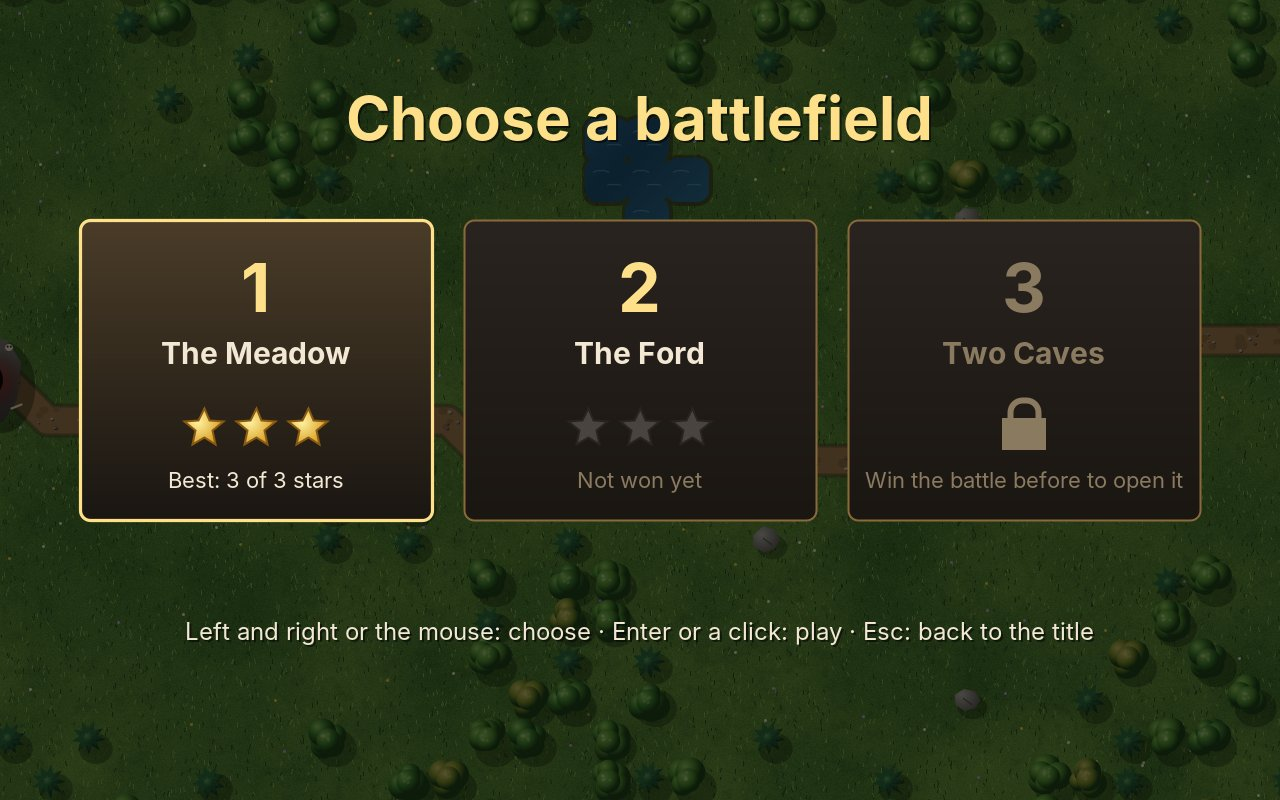
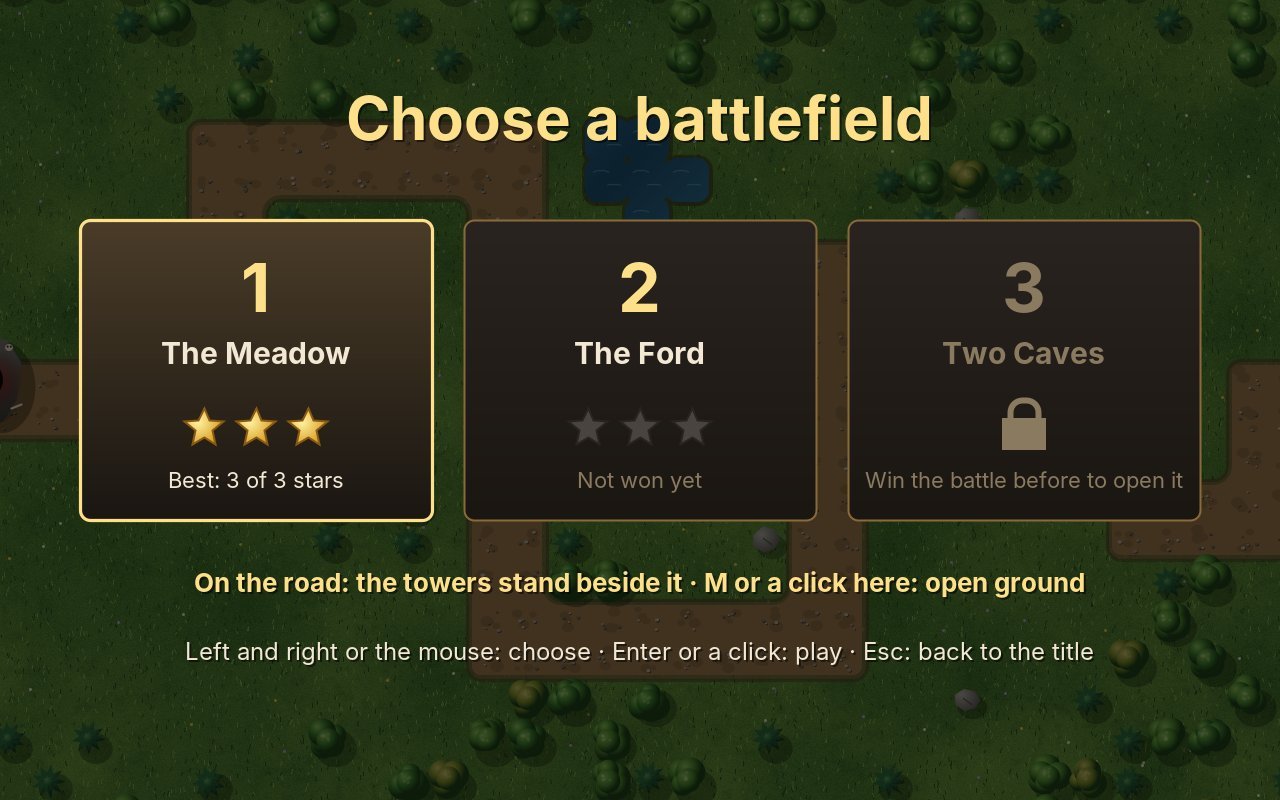
Handbook: Towers on the road by default
Chapter 30 describes the road as the default and open ground as the
option: the road tile, the test of both, the rounded road drawing, and
a screenshot of the meadow on the road. The handbook pins the game's new
commit.

Claude-Session: https://claude.ai/code/session_014Ws2hYxAe6TdWMn4xg5igP

diff --git a/docs/handbook/chapters/30-towers.md b/docs/handbook/chapters/30-towers.md
@@ -1,6 +1,6 @@
 # 30. Towers
 
-In every game so far the player steered one thing: a paddle, a ship, a snake, a jumping figure. In **Towers** they steer nothing. Orcs, dire wolves and trolls come out of their lairs and march on the castle, and the player builds towers that shoot at them: archers, cannons and frost towers. The game has no road. The enemies walk over open ground, the shortest way to the castle, and every tower the player builds stands in that way and makes it longer. The towers are the maze. The one rule that holds it all together is that a tower may never close the last way.
+In every game so far the player steered one thing: a paddle, a ship, a snake, a jumping figure. In **Towers** they steer nothing. Orcs, dire wolves and trolls come out of their lairs and march on the castle, and the player builds towers that shoot at them: archers, cannons and frost towers. By default the enemies keep to a road and the towers stand beside it. The game has a second way to play, though, and that is the one this chapter is built around: **open ground**. There the road is grass like any other, the enemies walk the shortest way to the castle, and every tower the player builds stands in that way and makes it longer. The towers are the maze. The one rule that holds it all together is that a tower may never close the last way.
 
 <figure markdown>
 ![The meadow in the seventh wave, a maze of towers](images/towers/battle.jpg){ width="400" }
@@ -8,7 +8,7 @@ In every game so far the player steered one thing: a paddle, a ship, a snake, a 
 <figcaption>The meadow in the seventh wave (left): five walls of towers with gaps at alternate ends, and the trail the enemies walk. The same with F3 (right): every tile points the way to the castle, white near it, orange far away.</figcaption>
 </figure>
 
-Tower defence grew out of custom maps for strategy games around 2002, and its two schools have been arguing since: games with a fixed road, where towers stand beside it, and games with open ground, where the player builds the maze. The second kind is harder to make, because the computer must find the way for every enemy again whenever a tower is built, and must say *no* before a tower closes it. This chapter makes that cheap with one idea, the **flow field**, and moves the game from the keyboard to the **mouse**.
+Tower defence grew out of custom maps for strategy games around 2002, and its two schools have been arguing since: games with a fixed road, where towers stand beside it, and games with open ground, where the player builds the maze. The first is the more common; Towers has both, one switch apart. The second is the harder to make, because the computer must find the way for every enemy again whenever a tower is built, and must say *no* before a tower closes it. This chapter makes that cheap with one idea, the **flow field**, and moves the game from the keyboard to the **mouse**.
 
 !!! abstract "What you will learn"
     - **Flow fields**: one search from the goal gives every tile its way, for any number of units
@@ -24,10 +24,10 @@ The complete game is in [amade-towers-game](https://github.com/datazuul/amade-to
 
 ## The rules
 
-1. A battlefield is a grid of tiles of 20 units: grass, trees, rocks and water. It is larger than the screen of 640 × 400; the bar at the top takes 22 of those, the view shows 32 × 19 tiles.
+1. A battlefield is a grid of tiles of 20 units: grass, a road, trees, rocks and water. It is larger than the screen of 640 × 400; the bar at the top takes 22 of those, the view shows 32 × 19 tiles.
 2. Enemies come out of one or more **lairs** in **waves** and walk to the **castle**. Each one that gets there costs lives: an orc or a wolf one, a troll three. When no lives are left, the castle falls.
 3. **Towers** stand on grass, one per tile. An **archer** shoots arrows, fast and far. A **cannon** throws a ball that bursts where its target will be and hurts everything around it. A **frost** tower sends out a wave of cold that slows every enemy near it. Each tower can be upgraded twice and sold for 70 % of what it cost.
-4. Enemies walk the shortest way over grass. Trees, rocks, water and towers are in their way. A tower that would leave a lair, or an enemy already on its way, without any way to the castle is **refused**.
+4. **On the road**, the default, enemies keep to the road, and towers stand on the grass beside it. **On open ground**, enemies walk the shortest way over grass and road alike, and trees, rocks, water and towers are in their way. A tower that would leave a lair, or an enemy already on its way, without any way to the castle is **refused**. The choice of a battlefield switches between the two.
 5. Beaten enemies bring gold. Between two waves there is a pause; calling the next wave early brings a gold piece for each second of it left.
 6. When the last wave is beaten, the battle is won: three stars for keeping 90 % of the lives, two for half, one otherwise. The stars are saved, and the next battlefield opens.
 
@@ -107,6 +107,24 @@ One search of a battlefield of 40 × 24 tiles is quick, so asking on every click
 ```java title="amade-towers-game · test/domain/GameTest.java"
 --8<-- "amade-towers-game/src/test/java/eu/amadeos/games/towers/domain/GameTest.java:test-block"
 ```
+
+### On the road
+
+The road is one more class of tile in the Tiled map, and one more question to `Ground`: may a unit walk here, may a tower stand here, and the answer now depends on how the battle is fought. On the road, units walk on road tiles only and towers stand on grass only; on open ground, the road is grass:
+
+```java title="amade-towers-game · domain/Ground.java"
+--8<-- "amade-towers-game/src/main/java/eu/amadeos/games/towers/domain/Ground.java:ground"
+```
+
+Nothing else changes. The flow field is searched over the tiles a unit may enter, so on the road it simply finds the way *along* the road, round its corners, from every lair. A tower can never stand on a road tile, so it can never close the way, and the trial search of `placement` always says yes. The same rules, the same field, the same walking, two different games:
+
+```java title="amade-towers-game · test/domain/GameTest.java"
+--8<-- "amade-towers-game/src/test/java/eu/amadeos/games/towers/domain/GameTest.java:test-road"
+```
+
+A map's road must lead from every lair to the castle, with its tiles side by side: a unit does not cut corners, so two road tiles that touch only at a corner do not join. `Level.read` checks it with one more flow field and rejects the map otherwise, as it rejects a castle that covers no tile. The roads of the three battlefields are two tiles wide, so that a crowd can walk beside each other.
+
+![The meadow on the road](images/towers/road.jpg){ width="560" }
 
 ### Walking
 
@@ -389,13 +407,19 @@ The flow field is drawn with F3 as one small arrow sprite per tile, in eight dir
 
 ### A ground that changes
 
-The ground of a battlefield is the most expensive picture: noise for the grass, ponds with their banks, rocks, the shadows of trees, the lairs and the castle, and the **trail**, the trodden path the enemies walk. It is drawn as three wide strokes of the whole way, dark rim, lighter edge and bare earth:
+The ground of a battlefield is the most expensive picture: noise for the grass, ponds with their banks, rocks, the shadows of trees, the lairs and the castle, and on open ground the **trail**, the trodden path the enemies walk. It is drawn as three wide strokes of the whole way, dark rim, lighter edge and bare earth:
 
 ```java title="amade-towers-game · ui/game/Art.java"
 --8<-- "amade-towers-game/src/main/java/eu/amadeos/games/towers/ui/game/Art.java:trail"
 ```
 
-All of it together takes far too long for a frame, so it must be cached. But the trail changes with every tower. Caching the whole map as one picture would mean drawing it all again on every click, a stutter each time.
+On the road, the trail is not drawn: the road is. It is the union of its tiles' squares, which has sharp corners, rounded by a trick from image processing: grown by a few units and shrunk again, which rounds the inner corners (a **closing**), then shrunk and grown again, which rounds the outer ones (an **opening**). Growing a shape by *r* is adding the outline drawn with a pen 2*r* wide; shrinking it is taking that outline away:
+
+```java title="amade-towers-game · ui/game/Art.java"
+--8<-- "amade-towers-game/src/main/java/eu/amadeos/games/towers/ui/game/Art.java:road"
+```
+
+All of it together takes far too long for a frame, so it must be cached. The road never changes, so on the road the cache could be one picture. On open ground, though, the trail changes with every tower. Caching the whole map as one picture would mean drawing it all again on every click, a stutter each time.
 
 So `Terrain` cuts the ground into **squares of 8 × 8 tiles**. Each square is a sprite of its own. After every step, `update` compares the trail of each square, and one tile around it, with what its picture shows, and only a square whose trail changed is drawn again:
 
@@ -430,7 +454,7 @@ Every pixel of a square is covered: the grass is everywhere. Chapter 27 taught `
 <figure markdown>
 ![The ford](images/towers/ford.jpg){ width="400" }
 ![Two caves](images/towers/caves.jpg){ width="400" }
-<figcaption>The ford (left), with its river and the stones across. Two caves (right): two lairs, one on each side.</figcaption>
+<figcaption>The ford (left), where the road crosses the river. Two caves (right): two lairs, and two roads that meet before the castle.</figcaption>
 </figure>
 
 ## Step 8: Everything else
@@ -489,16 +513,17 @@ The keys are bound as in the earlier games and can be changed in the settings fi
 | 32 turned copies of a picture | `eu.amadeos.gameengine.sprite.Rotations` | Everything seen from above that turns |
 | Drawn sprites cached opaque | `eu.amadeos.gameengine.sprite.Sprite` | Every ground drawn in code |
 
-What stays in the game: the ground and its classes, the rules of building, walking, aiming and gold, the units, towers and waves, the battlefields, the art, the terrain in squares, the painter, the sounds and tunes, the progress and the scenes.
+What stays in the game: the ground and its classes, the road and open ground, the rules of building, walking, aiming and gold, the units, towers and waves, the battlefields, the art, the terrain in squares, the painter, the sounds and tunes, the progress and the scenes.
 
 ## Exercises
 
-1. **A tower of your own.** Add a fourth kind to `towers.txt`: a **poison** tower whose shot hurts a little every second for a few seconds. Which properties does it need, which lines of `Game`, and what does `finish` say before you have written them?
-2. **Flying units.** Bats fly straight to the castle over towers, trees and water. They need no flow field, or a second one: which is simpler, and which lets a frost tower still matter?
-3. **The longest maze.** Write a test that builds, with a fixed amount of gold, the maze that makes the way from the lair to the castle the longest. Is a greedy builder (always the tile that lengthens the way most) good enough?
-4. **Sell back the maze.** Selling a tower opens the way again, and every enemy takes the shorter way at once. Is that a trick players will use, and should the rules allow it?
-5. **A minimap.** Draw the whole battlefield small in a corner, the towers as dots, the view as a box. A click on it moves the camera there. You will need it in the next chapter.
-6. **Group flow.** Two hundred orcs on one trail walk through each other. Give each a little push away from its neighbours (the spatial grid of chapter 24 finds them) and see how a crowd forms in a gap.
+1. **Short cuts.** On the road, let wolves (and only wolves) leave it and cross open grass. Each kind of unit then needs a flow field of its own: how many fields does the game keep, and when is each searched again?
+2. **A tower of your own.** Add a fourth kind to `towers.txt`: a **poison** tower whose shot hurts a little every second for a few seconds. Which properties does it need, which lines of `Game`, and what does `finish` say before you have written them?
+3. **Flying units.** Bats fly straight to the castle over towers, trees and water. They need no flow field, or a second one: which is simpler, and which lets a frost tower still matter?
+4. **The longest maze.** Write a test that builds, with a fixed amount of gold, the maze that makes the way from the lair to the castle the longest. Is a greedy builder (always the tile that lengthens the way most) good enough?
+5. **Sell back the maze.** Selling a tower opens the way again, and every enemy takes the shorter way at once. Is that a trick players will use, and should the rules allow it?
+6. **A minimap.** Draw the whole battlefield small in a corner, the towers as dots, the view as a box. A click on it moves the camera there. You will need it in the next chapter.
+7. **Group flow.** Two hundred orcs on one trail walk through each other. Give each a little push away from its neighbours (the spatial grid of chapter 24 finds them) and see how a crowd forms in a gap.
 
 ---
 
